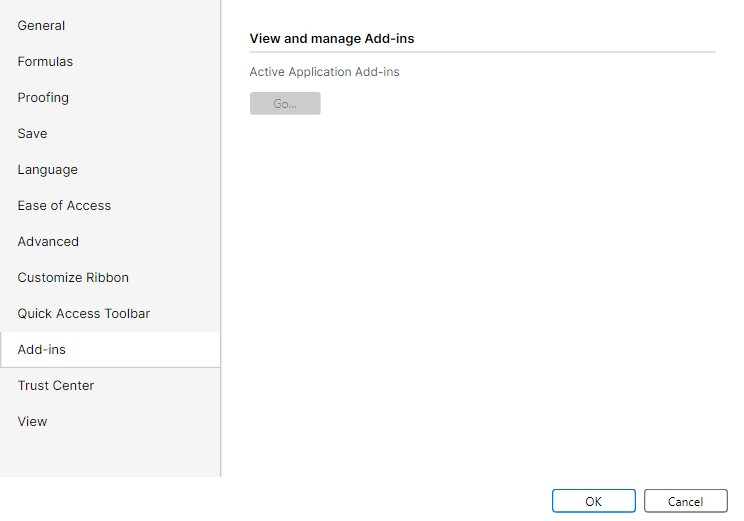
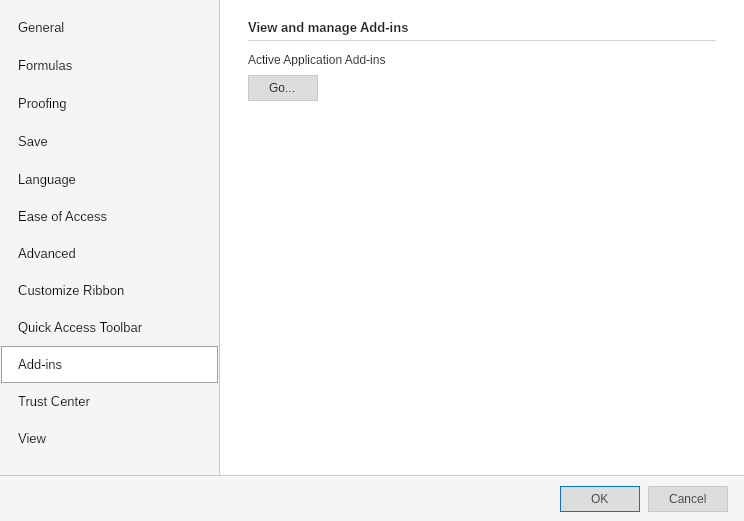
Align FreeX AddIns dialog parity

diff --git a/src/FreeX.App.Avalonia/MainWindow.Options.cs b/src/FreeX.App.Avalonia/MainWindow.Options.cs
@@ -919,10 +919,30 @@ public sealed partial class MainWindow
             quickAccessGrid,
             quickAccessImportExportButton);
 
+        var addInsGoButton = OptionsButton(
+            OptionsText("Options_Go"),
+            width: OptionsDialogPlanner.AddInsGoButtonWidth);
+        AutomationProperties.SetAutomationId(addInsGoButton, "AddInsGoButton");
+        addInsGoButton.Click += async (_, _) =>
+            await AvaloniaUserMessageDialog.ShowWarningAsync(
+                dialog,
+                UiText.Get("DeferredCommand_OfficeAddIns_Body"),
+                UiText.Get("DeferredCommand_OfficeAddIns_Title"));
+
+        var addInsDescription = OptionsDescription(
+            OptionsText("Options_ActiveApplicationAddIns"),
+            bottomMargin: OptionsDialogPlanner.AddInsDescriptionBottomMargin);
+        addInsDescription.Foreground = Brushes.Black;
         var addInsPanel = OptionsCategoryPanel(
-            OptionsSectionHeader(OptionsText("Options_ViewAndManageAddIns")),
-            OptionsDescription(OptionsText("Options_ActiveApplicationAddIns")),
-            OptionsButton(OptionsText("Options_Go"), width: 72, isEnabled: false));
+            OptionsSectionHeader(
+                OptionsText("Options_ViewAndManageAddIns"),
+                topMargin: OptionsDialogPlanner.AddInsSectionHeaderTopMargin,
+                bottomMargin: OptionsDialogPlanner.AddInsSectionHeaderBottomMargin,
+                ruleTopMargin: OptionsDialogPlanner.AddInsSectionRuleTopMargin,
+                ruleBottomMargin: OptionsDialogPlanner.AddInsSectionRuleBottomMargin),
+            addInsDescription,
+            addInsGoButton);
+        addInsPanel.Spacing = 0;
 
         var crashAnalyticsBox = new CheckBox
         {

diff --git a/tests/FreeX.App.Avalonia.Tests/OptionsDialogAdvancedParitySourceTests.cs b/tests/FreeX.App.Avalonia.Tests/OptionsDialogAdvancedParitySourceTests.cs
@@ -153,6 +153,30 @@ public sealed class OptionsDialogAdvancedParitySourceTests
     }
 
     [Fact]
+    public void AddIns_UsesWpfGeometryAndEnabledOwnedDeferredRoute()
+    {
+        var source = File.ReadAllText(RepoFile("src", "FreeX.App.Avalonia", "MainWindow.Options.cs"));
+        var planner = File.ReadAllText(RepoFile("src", "FreeX.App.Services", "OptionsDialogPlanner.cs"));
+        var wpf = File.ReadAllText(RepoFile("src", "FreeX.App.Host", "OptionsDialog.xaml"));
+
+        planner.Should().Contain("AddInsSectionHeaderTopMargin");
+        planner.Should().Contain("AddInsSectionRuleBottomMargin");
+        source.Should().Contain("var addInsGoButton = OptionsButton(");
+        source.Should().Contain("OptionsDialogPlanner.AddInsGoButtonWidth");
+        source.Should().Contain("AutomationProperties.SetAutomationId(addInsGoButton, \"AddInsGoButton\")");
+        source.Should().Contain("addInsGoButton.Click += async (_, _) =>");
+        source.Should().Contain("UiText.Get(\"DeferredCommand_OfficeAddIns_Body\")");
+        source.Should().Contain("UiText.Get(\"DeferredCommand_OfficeAddIns_Title\")");
+        source.Should().Contain("addInsPanel.Spacing = 0;");
+        source.Should().NotContain("OptionsButton(OptionsText(\"Options_Go\"), width: 72, isEnabled: false)");
+
+        wpf.Should().Contain("x:Name=\"PanelAddIns\"");
+        wpf.Should().Contain("x:Name=\"AddInsGoButton\"");
+        wpf.Should().Contain("Width=\"70\" Height=\"26\"");
+        wpf.Should().Contain("Click=\"AddInsGoButton_Click\"");
+    }
+
+    [Fact]
     public async Task CustomizeRibbonImportExport_UsesOwnedModalAndClosesThroughClickAndKeyboard()
     {
         await Session.Dispatch(async () =>

diff --git a/tests/FreeX.App.Host.Tests/OptionsDialogSourceTests.General.cs b/tests/FreeX.App.Host.Tests/OptionsDialogSourceTests.General.cs
@@ -136,6 +136,23 @@ public sealed partial class OptionsDialogSourceTests
     }
 
     [Fact]
+    public void OptionsDialog_AddInsMatchesTheWpfSectionAndDeferredActionContract()
+    {
+        var xaml = DialogSourceTestSupport.ReadHostSources("OptionsDialog.xaml");
+        var source = DialogSourceTestSupport.ReadHostSources("OptionsDialog.xaml.cs");
+
+        xaml.Should().Contain("x:Name=\"PanelAddIns\"");
+        xaml.Should().Contain("Options_ViewAndManageAddIns");
+        xaml.Should().Contain("Options_ActiveApplicationAddIns");
+        xaml.Should().Contain("x:Name=\"AddInsGoButton\"");
+        xaml.Should().Contain("Width=\"70\" Height=\"26\"");
+        xaml.Should().Contain("Click=\"AddInsGoButton_Click\"");
+        source.Should().Contain("PanelAddIns.Visibility");
+        source.Should().Contain("private void AddInsGoButton_Click");
+        source.Should().Contain("DeferredCommandMessages.OfficeAddIns()");
+    }
+
+    [Fact]
     public void OptionsDialog_DefaultFormatUsesNativeFreexWorkbookExtension()
     {
         var source = DialogSourceTestSupport.ReadHostSources("OptionsDialog.xaml.cs");

diff --git a/src/FreeX.App.Services/OptionsDialogPlanner.cs b/src/FreeX.App.Services/OptionsDialogPlanner.cs
@@ -72,6 +72,12 @@ public static class OptionsDialogPlanner
     public const double LanguageSectionBottomMargin = 14;
     public const double LanguageFieldBottomMargin = 9;
     public const double LanguageDescriptionTopMargin = 4;
+    public const double AddInsSectionHeaderTopMargin = 0;
+    public const double AddInsSectionHeaderBottomMargin = 0;
+    public const double AddInsSectionRuleTopMargin = 5;
+    public const double AddInsSectionRuleBottomMargin = 12;
+    public const double AddInsDescriptionBottomMargin = 8;
+    public const double AddInsGoButtonWidth = 70;
     public const double ProofingContentWidth = CaptureWidth - CategoryColumnWidth - (ContentPaddingHorizontal * 2);
     public const double ProofingWordsListHeight = 108;
     public const double ProofingAddWordLabelWidth = 94;

diff --git a/src/FreeX.App.Host/ParityCapture.cs b/src/FreeX.App.Host/ParityCapture.cs
@@ -617,6 +617,7 @@ internal static class ParityCapture
                 string.Equals(targetSurfaceId, "dialog.Options.Language", StringComparison.Ordinal) ||
                 string.Equals(targetSurfaceId, "dialog.Options.EaseOfAccess", StringComparison.Ordinal) ||
                 string.Equals(targetSurfaceId, "dialog.Options.CustomizeRibbon", StringComparison.Ordinal) ||
+                string.Equals(targetSurfaceId, "dialog.Options.AddIns", StringComparison.Ordinal) ||
                 string.Equals(targetSurfaceId, "dialog.Options.TrustCenter", StringComparison.Ordinal))
             {
                 CaptureDialogTabs(results, "dialog.Options", outDir,

diff --git a/tests/FreeX.App.Host.Tests/OptionsDialogSourceTests.cs b/tests/FreeX.App.Host.Tests/OptionsDialogSourceTests.cs
@@ -88,6 +88,15 @@ public sealed partial class OptionsDialogSourceTests
     }
 
     [Fact]
+    public void ParityCapture_TargetsOptionsAddInsForFocusedEvidence()
+    {
+        var source = DialogSourceTestSupport.ReadHostSources("ParityCapture.cs");
+
+        source.Should().Contain("string.Equals(targetSurfaceId, \"dialog.Options.AddIns\", StringComparison.Ordinal)");
+        source.Should().Contain("captureOnlySurfaceId: targetSurfaceId");
+    }
+
+    [Fact]
     public void ParityCapture_TargetsOptionsCustomizeRibbonForFocusedEvidence()
     {
         var source = DialogSourceTestSupport.ReadHostSources("ParityCapture.cs");

diff --git a/docs/parity/dialog-visual-evidence-summary.md b/docs/parity/dialog-visual-evidence-summary.md
@@ -62,7 +62,6 @@ Outliers are ranked by a deterministic triage score: normalized 32x32 ARGB sampl
 
 | Surface id | WPF logical size | Avalonia logical size | Raw PNG sizes | Bucket | Evidence flag | Score | Sample delta | Luma delta | Non-bg delta |
 | --- | ---: | ---: | --- | --- | --- | ---: | ---: | ---: | ---: |
-| dialog.Options.AddIns | 744x521 | 744x521 | 744x521 px @ 96 DPI vs 744x521 px @ 96 DPI |  |  | 0.097 | 0.015 | 0.006 | 0.076 |
 | dialog.FindReplace | 720x430 | 720x430 | 720x430 px @ 96 DPI vs 720x430 px @ 96 DPI |  |  | 0.095 | 0.015 | 0.005 | 0.075 |
 | dialog.FindReplace.Find | 720x430 | 720x430 | 720x430 px @ 96 DPI vs 720x430 px @ 96 DPI |  |  | 0.095 | 0.015 | 0.005 | 0.075 |
 | dialog.InsertHyperlink | 560x300 | 560x300 | 840x450 px @ 144 DPI vs 560x300 px @ 96 DPI |  |  | 0.095 | 0.046 | 0.008 | 0.041 |
@@ -72,6 +71,7 @@ Outliers are ranked by a deterministic triage score: normalized 32x32 ARGB sampl
 | dialog.PageSetup.Page | 600x560 | 600x560 | 600x560 px @ 96 DPI vs 600x560 px @ 96 DPI |  |  | 0.091 | 0.025 | 0.007 | 0.059 |
 | dialog.FormatCells.Alignment | 620x540 | 620x540 | 620x540 px @ 96 DPI vs 620x540 px @ 96 DPI |  |  | 0.090 | 0.013 | 0.011 | 0.066 |
 | dialog.EvaluateFormula | 600x360 | 600x360 | 900x540 px @ 144 DPI vs 600x360 px @ 96 DPI |  |  | 0.090 | 0.030 | 0.007 | 0.052 |
+| dialog.TextToColumns | 500x430 | 500x430 | 750x645 px @ 144 DPI vs 500x430 px @ 96 DPI |  |  | 0.089 | 0.068 | 0.009 | 0.012 |
 
 ## Scale-Aware Dimension Mismatch Details
 
@@ -129,7 +129,7 @@ These rows have a DPI-normalized checked-in PNG size that disagrees with the dia
 | dialog.LegalNotices | dialog.LegalNotices.png | 840x620 | 1260x930 px @ 144 DPI | True | dialog.LegalNotices.png | 840x620 | 840x620 px @ 96 DPI | True | True | 0.030 |
 | dialog.OpenWorkbook | dialog.OpenWorkbook.png | 640x420 | 640x420 px @ 96 DPI | True | dialog.OpenWorkbook.png | 640x420 | 640x420 px @ 96 DPI | True | True | 0.034 |
 | dialog.Options | dialog.Options.png | 744x521 | 744x521 px @ 96 DPI | True | dialog.Options.png | 744x521 | 744x521 px @ 96 DPI | True | True | 0.032 |
-| dialog.Options.AddIns | dialog.Options.AddIns.png | 744x521 | 744x521 px @ 96 DPI | True | dialog.Options.AddIns.png | 744x521 | 744x521 px @ 96 DPI | True | True | 0.097 |
+| dialog.Options.AddIns | dialog.Options.AddIns.png | 744x521 | 744x521 px @ 96 DPI | True | dialog.Options.AddIns.png | 744x521 | 744x521 px @ 96 DPI | True | True | 0.013 |
 | dialog.Options.Advanced | dialog.Options.Advanced.png | 744x521 | 744x521 px @ 96 DPI | True | dialog.Options.Advanced.png | 744x521 | 744x521 px @ 96 DPI | True | True | 0.041 |
 | dialog.Options.CustomizeRibbon | dialog.Options.CustomizeRibbon.png | 744x521 | 744x521 px @ 96 DPI | True | dialog.Options.CustomizeRibbon.png | 744x521 | 744x521 px @ 96 DPI | True | True | 0.024 |
 | dialog.Options.EaseOfAccess | dialog.Options.EaseOfAccess.png | 744x521 | 744x521 px @ 96 DPI | True | dialog.Options.EaseOfAccess.png | 744x521 | 744x521 px @ 96 DPI | True | True | 0.013 |

diff --git a/docs/parity/avalonia-parity-wave113-freex-addins-20260802.md b/docs/parity/avalonia-parity-wave113-freex-addins-20260802.md
@@ -1,0 +1,41 @@
+# Avalonia Parity Wave113: FreeX Add-ins
+
+## Scope
+
+- FreeX `dialog.Options.AddIns` against the WPF `OptionsDialog` authority.
+- Options dialog implementation, shared planner metrics, focused tests, and AddIns-specific visual evidence only.
+
+## Delivered
+
+- Added shared AddIns section and button metrics to `OptionsDialogPlanner`.
+- Matched Avalonia's AddIns header/rule rhythm and explicit description/button spacing to the WPF XAML.
+- Restored WPF-equivalent black description text and an enabled 70x26 `Go...` button.
+- Routed Avalonia activation to the localized Office Add-ins deferred message in an owned modal and assigned `AddInsGoButton` automation metadata.
+- Enabled focused WPF capture selection for `dialog.Options.AddIns`.
+- Added focused WPF and Avalonia source-contract coverage for geometry, state, routing, and capture selection.
+
+## Fresh Evidence
+
+- WPF: `docs/parity/dialog-visual-assets/wpf-capture/dialog.Options.AddIns.png`, captured from current `FreeX.App.Host --parity-capture --parity-capture-target dialog.Options.AddIns`.
+- Avalonia: `docs/parity/dialog-visual-assets/avalonia-capture/dialog.Options.AddIns.png`, captured from the current self-contained Linux app in Ubuntu 24.04 Docker/Xvfb with `--parity-capture --parity-capture-surface dialog.Options.AddIns`.
+- Both captures are nonblank and `744x521` pixels at the canonical 96-DPI logical frame.
+- Regenerated summary: `docs/parity/dialog-visual-evidence-summary.json` and `.md`.
+
+| Metric | Before | Wave113 | Change |
+| --- | ---: | ---: | ---: |
+| AddIns triage score | 0.097051 | 0.012806 | -86.8% |
+| Sample mean delta | 0.015054 | 0.007436 | lower |
+| Luma delta | 0.005817 | 0.001722 | lower |
+| Non-background delta | 0.075901 | 0.003369 | lower |
+| Logical dimensions | 744x521 / 744x521 | 744x521 / 744x521 | matched |
+
+## Verification
+
+- Avalonia focused source test passed: `AddIns_UsesWpfGeometryAndEnabledOwnedDeferredRoute`.
+- WPF focused source test passed: `OptionsDialog_AddInsMatchesTheWpfSectionAndDeferredActionContract`.
+- WPF host Release build passed with 0 warnings and 0 errors.
+- Generated dialog evidence summary passed: 94/94 paired surfaces, 0 nonblank failures, 0 dimension mismatches.
+
+## Remaining
+
+The remaining `0.012806` triage score is consistent with Linux versus WPF text rasterization and native control rendering. The paired frame is dimension-matched, the AddIns structure and enabled action state are aligned, and no further AddIns layout discrepancy was evident in the fresh captures.
